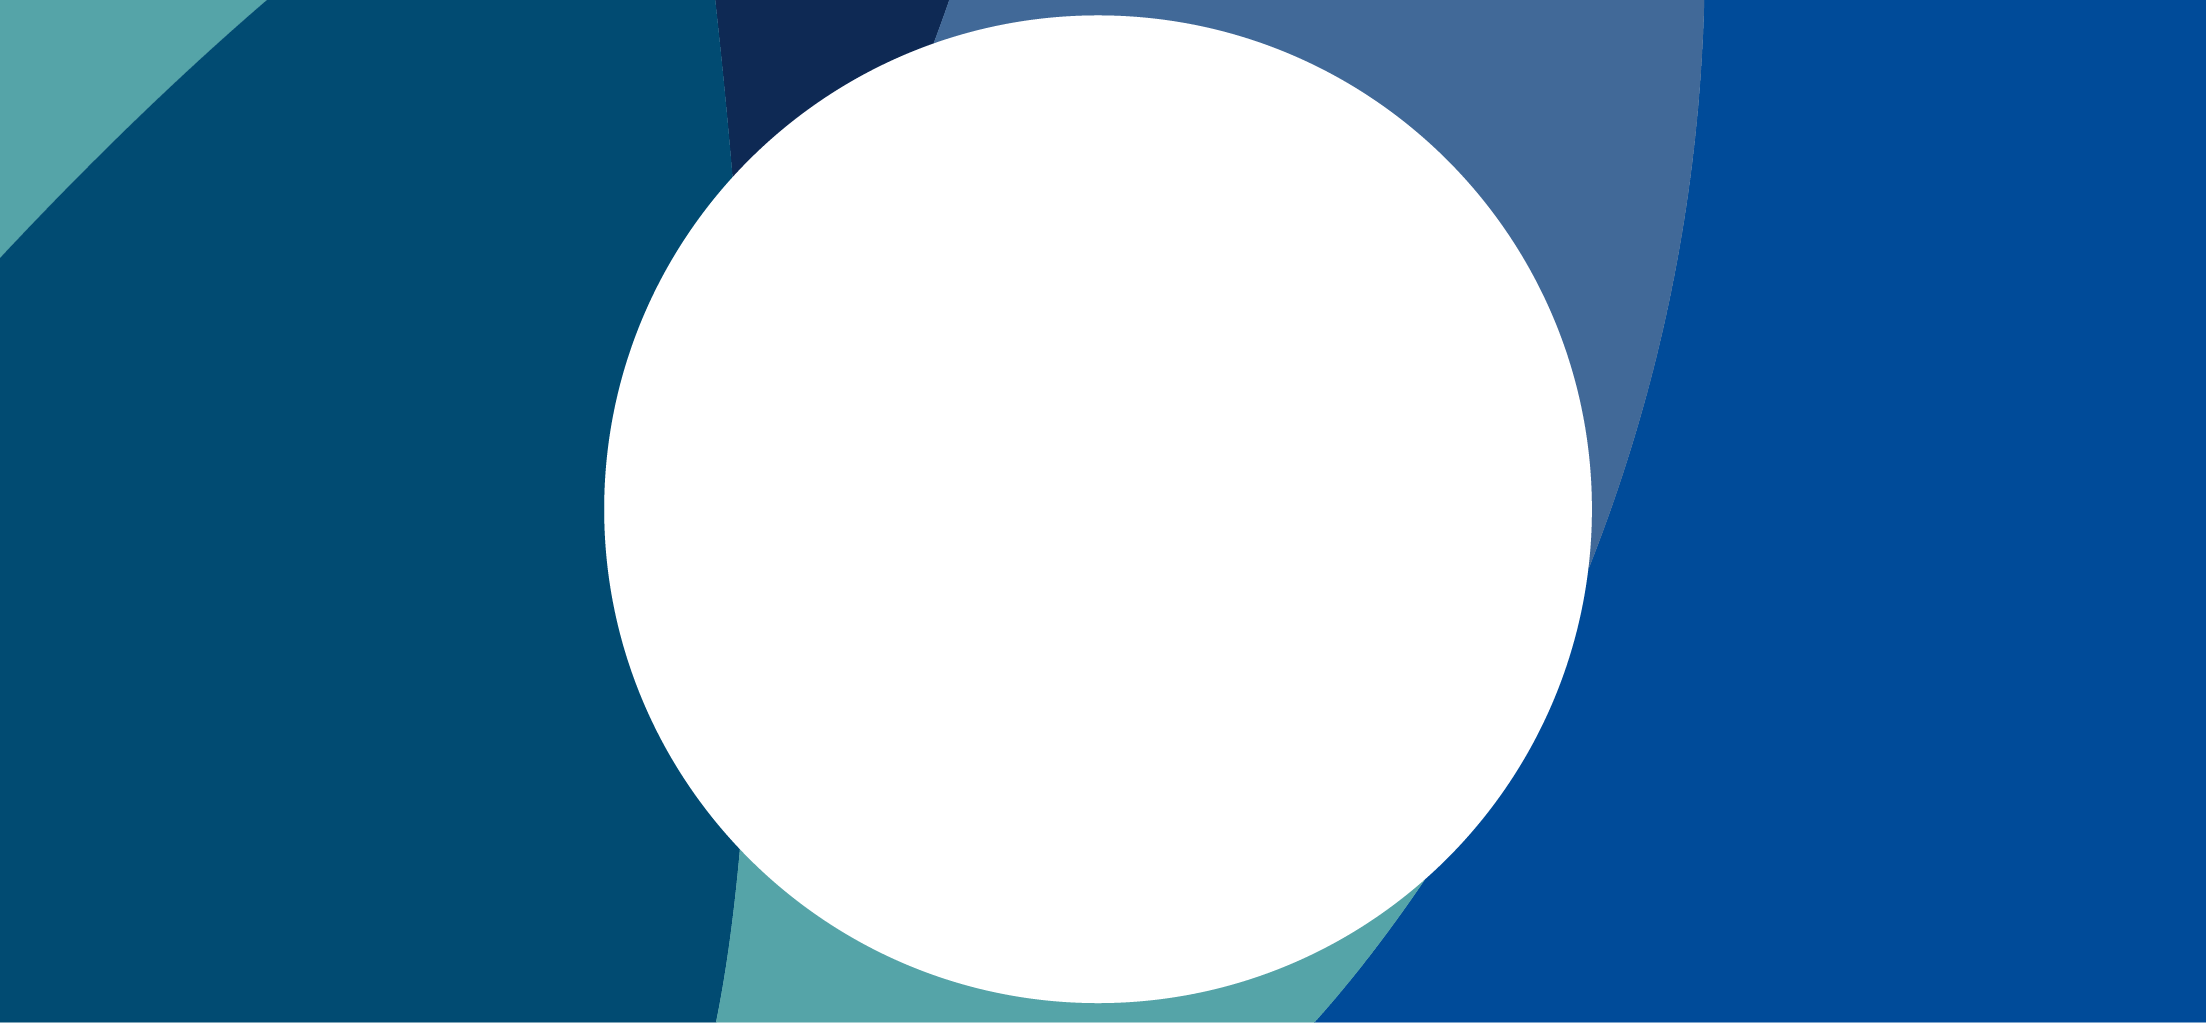
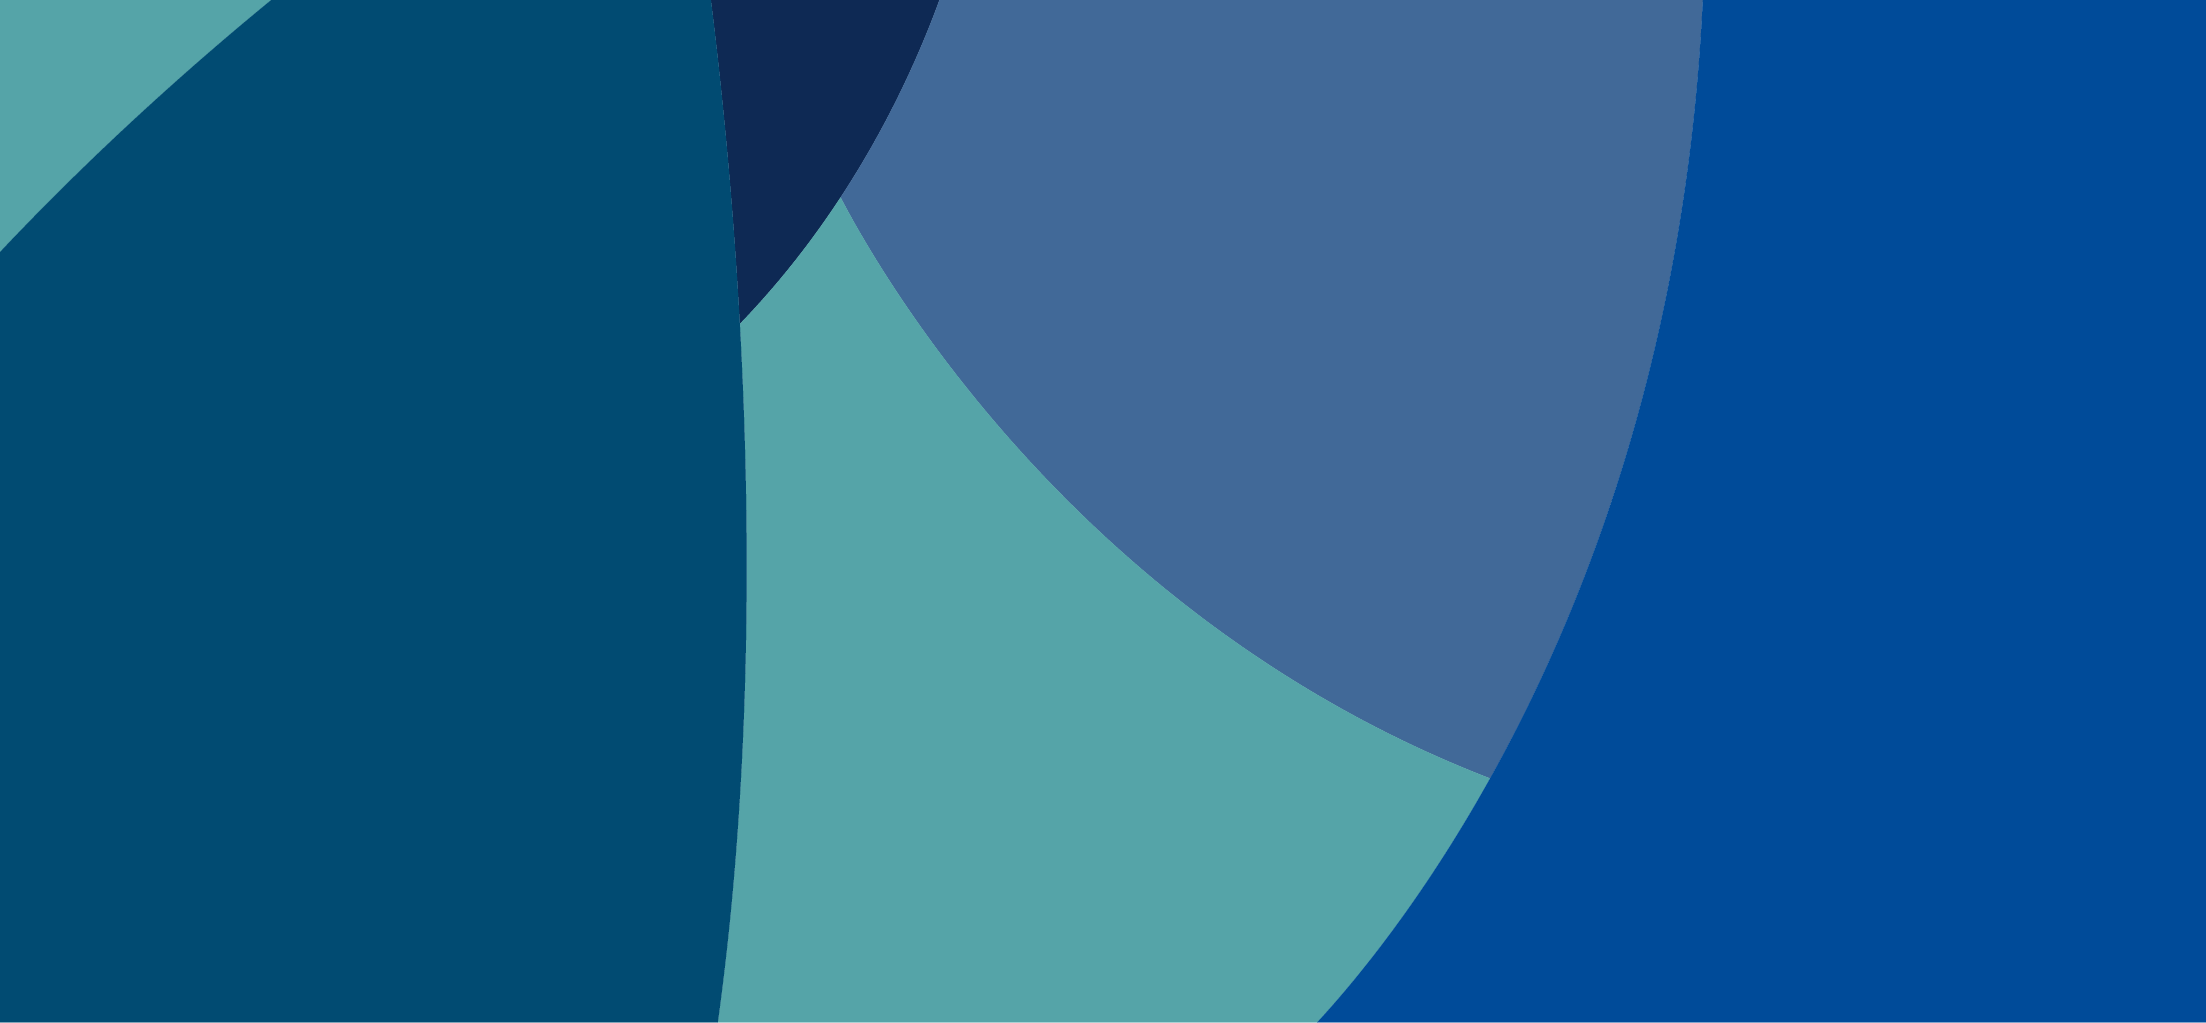
Login

diff --git a/src/views/Login/LoginView.vue b/src/views/Login/LoginView.vue
@@ -22,7 +22,7 @@ export default {
 <style scoped>
 
 .bg-login{
-	background-color: var(--dark-blue);
+	background-image: url('./../../assets/images/bg-login.png');
 	height: 100vh;
 	background-size: cover;
 }
